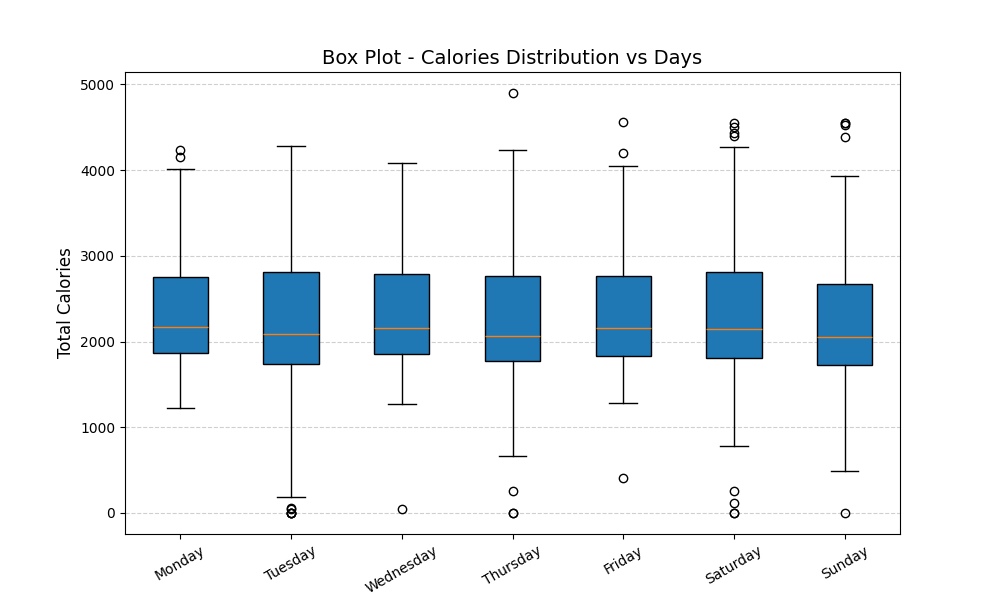
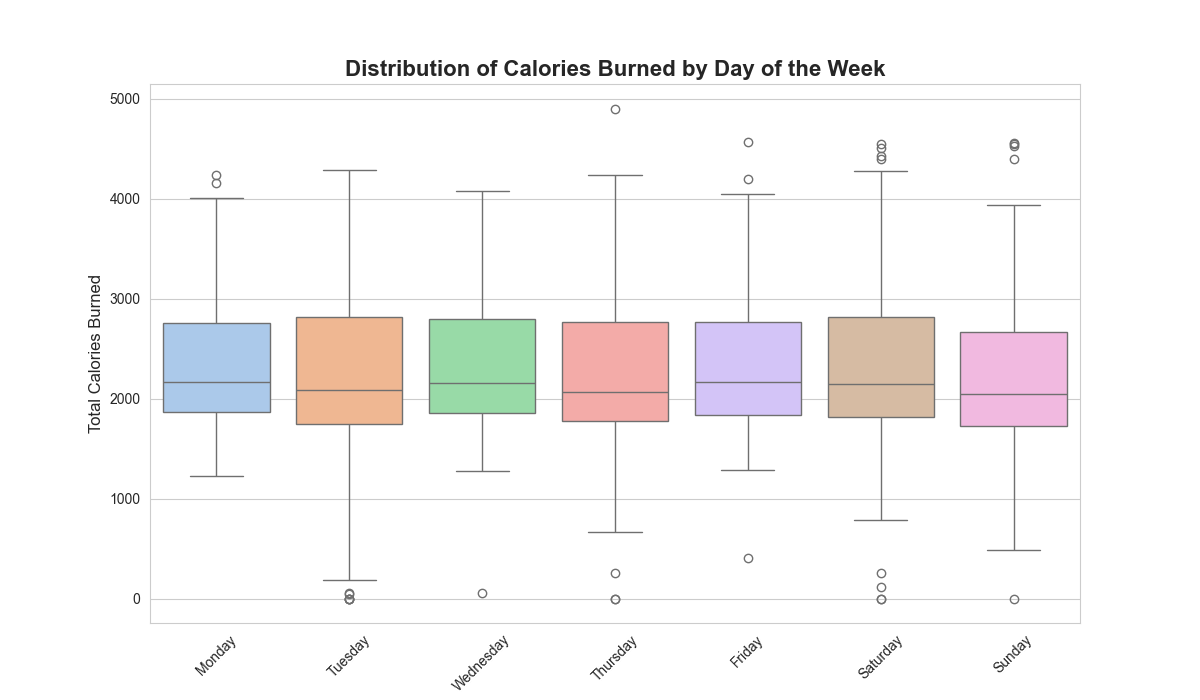
Finalizing the project. Created ReadMe file.

diff --git a/src/train_model.py b/src/train_model.py
@@ -1,14 +1,14 @@
 # ==============================================================================
-# Fitbit User Activity - Exploratory Data Analysis (EDA)
+# Fitbit User Activity - Model Training
 #
 # Project:      IIT Ropar Capstone Project
 #
 # Purpose: This script performs the entire machine learning pipeline:
-#   1. Loads the raw Fitbit data.
-#   2. Prepares it for the LSTM model (cleaning, creating sequences, scaling).
-#   3. Trains the LSTM model, using Early Stopping to find the best version.
-#   4. Evaluates the best model and shows performance graphs.
-#   5. Saves the final, trained model and all necessary components to a 'src' folder.
+#           1. Loads the raw Fitbit data.
+#           2. Prepares it for the LSTM model (cleaning, creating sequences, scaling).
+#           3. Trains the LSTM model, using Early Stopping to find the best version.
+#           4. Evaluates the best model and shows performance graphs.
+#           5. Saves the final, trained model and all necessary components to a 'src' folder.
 #
 # ==============================================================================
 

diff --git a/cleaning_and_transformation.py b/cleaning_and_transformation.py
@@ -1,11 +1,15 @@
-import pandas as pd
-
 # ==============================================================================
-# DATA CONSISTENCY CHECK
+# Fitbit User Activity - Cleaning and Transforming Data
 #
-# The first step is to analyze user overlap between different datasets. This helps
-# justify which datasets to merge and which time periods to focus on.
+# Project:      IIT Ropar Capstone Project
+#
+# Purpose:      The first step is to analyze user overlap between different datasets. This helps
+#               justify which datasets to merge and which time periods to focus on.
+#
+# 
 # ==============================================================================
+
+import pandas as pd
 
 # A utility function to compare the user IDs present in two different dataframes.
 def checking_consistency(first_file, second_file, label):

diff --git a/ReadMe.md b/ReadMe.md
@@ -1,14 +1,142 @@
-## Checking consistency for users before merging data for both months.
+# Fitbit Calorie Prediction & Daily Goal Forecaster
 
-# WeightLogInfo
+**A Capstone Project for IIT Ropar**
 
-Checked the **unique number of users** for both datasets before merging.
-Found that there are some users common in both datasets. It will be interesting to see their fitness journey (2 months).
+## Project Overview
 
-![image](assets/wtlog_comparison.png)
+This project leverages machine learning to forecast daily calorie expenditure for Fitbit users. Using a time-series dataset of user activity, the primary goal is to build and evaluate a system that can predict, early in the day, whether a user is on track to meet their daily calorie target.
 
-While there are 5 and 2 unique users in first and second month respectively, let's see user's avg_weight for both months.
+The project follows a complete data science workflow, starting with in-depth Exploratory Data Analysis (EDA) to understand user behavior, followed by rigorous data preprocessing and feature engineering. A Long Short-Term Memory (LSTM) neural network is trained to predict hourly calorie burn. This hourly model is then used as the engine for a daily forecaster, which is systematically evaluated for both its regression accuracy and its classification performance.
 
-![image](assets/avg_wt_first_vs_second.png)
+The final output is a predictive tool that provides a reliable YES/NO verdict on daily goal achievement, demonstrating a practical application of time-series forecasting in the personal fitness domain.
 
-Noted that there no significant change in user's avg_weight between 2 months. So, decided to include all data of weight log, from both datasets, regardless of incomplete information and varied log timings by users.
+
+
+## Key Features
+
+-   **In-Depth EDA:** Comprehensive analysis of user behavior, including activity levels, weekday patterns, and persona identification (e.g., "Consistent Users" vs. "Weekend Warriors").
+-   **Data Preprocessing:** Robust pipeline for cleaning, transforming, and merging multiple granular Fitbit datasets (calories, steps, sleep, heart rate).
+-   **Feature Engineering:** Creation of valuable hourly features from minute-level sleep data and second-level heart rate data, including a personalized 'StressLevel' metric.
+-   **LSTM Time-Series Model:** A Keras/TensorFlow-based LSTM model trained to predict hourly calorie burn based on a 24-hour sequence of historical activity.
+-   **Daily Forecast System:** An intelligent script that uses the hourly model to iteratively forecast the remainder of the day and predict daily goal achievement.
+-   **Rigorous Evaluation:** A systematic evaluation of the final forecast model on an unseen test set, reporting both regression (MAE, RMSE) and classification (Accuracy, Precision, Recall, F1-Score) metrics.
+
+
+
+## Tech Stack
+
+-   **Language:** Python
+-   **Core Libraries:** Pandas, NumPy
+-   **Machine Learning:** TensorFlow (with Keras API), Scikit-learn
+-   **Data Visualization:** Matplotlib, Seaborn
+-   **Utilities:** Joblib (for saving/loading model assets)
+
+
+
+## Project Structure
+
+This repository is organized into a series of scripts, each performing a distinct phase of the project:
+
+-   `comparison_first_vs_sec_month`: Performs a preliminary analysis to compare user consistency across the two monthly data dumps, justifying the decision to use the second month's data for modeling.
+-   `data_analysis` & `data_deep_dive.py`: These scripts conduct a thorough Exploratory Data Analysis to uncover patterns and insights from the user data.
+-   `cleaning_and_transformation.py`: The main data pipeline script. It cleans, transforms, engineers features, and merges all the source files into a single, model-ready `final_hourly.csv`.
+-   `train_model.py`: This script takes the preprocessed data, builds the LSTM model, trains it using `EarlyStopping` to find the optimal version, evaluates it, and saves the final model and all necessary assets (scalers, test data) to the `/src` directory.
+-   `predict.py`: A dedicated script to rigorously evaluate the saved model's daily forecasting ability on the unseen test set, producing a full classification and regression report, demonstrating the model's practical use.
+
+
+
+## Setup and Installation
+
+1.  **Clone the repository:**
+    ```bash
+    git clone https://github.com/MJuneja29/FitPredict_Activity-Prediction-and-Motivation-System.git
+    cd FitPredict_Activity-Prediction-and-Motivation-System
+    ```
+
+2.  **Create a virtual environment (recommended):**
+    ```bash
+    python -m venv venv
+    source venv/bin/activate  # On Windows, use `venv\Scripts\activate`
+    ```
+
+3.  **Install the required packages:**
+    A `requirements.txt` file is provided. Install all dependencies using pip:
+    ```bash
+    pip install -r requirements.txt
+    ```
+    
+
+4.  **Data:**
+    Place the raw Fitbit datasets into a `Data/` directory as structured in the scripts.
+
+
+
+## How to Run the Project
+
+Execute the scripts in the following order to replicate the project workflow:
+
+**Step 1: Data Preprocessing**
+Run the preprocessing script to clean, engineer features, and create the final `final_hourly.csv` dataset.
+```bash
+python cleaning_and_transformation.py
+```
+
+**Step 2: Train the LSTM Model**
+This script will train the model, find the best epoch using early stopping, and save the final model and all assets into a `/src` folder.
+```bash
+python train_model.py
+```
+
+**Step 3: Evaluate the Forecast Model**
+Run the evaluation script to get a detailed performance report on the model's ability to predict daily goal achievement.
+```bash
+python predict.py
+```
+
+
+
+## Results and Evaluation
+
+The final daily forecast model was evaluated on an unseen test set by simulating a prediction at 3 PM for each day. The model demonstrated strong performance in its primary goal of classifying whether a user would meet their daily calorie target.
+
+#### Key Performance Metrics:
+
+-   **Accuracy:** **89.67%**
+    -   *The model's YES/NO verdict on meeting the daily goal is correct nearly 9 out of 10 times.*
+-   **Precision:** **83.78%**
+    -   *When the model predicts a user will succeed, it is correct 84% of the time, indicating high reliability.*
+-   **Recall:** **86.11%**
+    -   *The model successfully identifies over 86% of the days where the user actually met their goal.*
+-   **F1-Score:** **84.93%**
+    -   *Shows a strong, balanced performance between Precision and Recall.*
+-   **Mean Absolute Error (MAE):** **334.82 calories**
+    -   *On average, the model's projection of the final daily calorie total is off by ~335 calories. This is primarily influenced by the model's difficulty in predicting the exact magnitude of spontaneous, high-intensity activities.*
+
+
+
+
+## Future Considerations and Enhancements
+
+While this project successfully demonstrates a robust forecasting model based on historical data, its true potential lies in its application as a real-time, interactive user-coaching system. The following are key areas for future development to transform this analysis into a dynamic, real-world product.
+
+### 1. Proactive Coaching with a Generative AI Engine
+
+-   **Concept:** Integrate the numerical forecast results with a **Generative AI model (like GPT-4)** via its API. Instead of just a YES/NO verdict, the system could provide dynamic, encouraging, and context-aware motivational messages.
+-   **Impact:** This transforms the system from a data tool into a personalized AI coach. For example, if a user has a 300-calorie deficit at 4 PM, the AI could generate a message like:
+ 
+    > *"Great effort so far today! It looks like you're about 300 calories short of your goal. A brisk 30-minute walk after dinner would be a perfect way to close the gap. You can do it!"*
+
+### 2. Developing a User-Facing Application
+
+-   **Concept:** Package the prediction logic into a backend service (e.g., using **Flask or FastAPI**) and connect it to a user-facing application.
+-   **Impact:** This would deliver the insights directly to the user in a convenient format, such as:
+    -   A **mobile app** that sends proactive push notifications.
+    -   A **web dashboard** for detailed daily and weekly trend analysis.
+    -   A **chatbot** (e.g., on Telegram or WhatsApp) for interactive, on-demand coaching.
+
+### 3. Advanced Model Enhancements
+
+-   **Concept:** Further improve the model's predictive accuracy, especially in reducing the Mean Absolute Error (MAE) for the final calorie number.
+-   **Impact:** A more accurate model leads to more precise suggestions.
+    -   **Richer Feature Engineering:** Incorporate more granular data that is often available through APIs, such as detailed **sleep stages (REM, deep, light)** and **Heart Rate Variability (HRV)** to better model user fatigue and recovery.
+    -   **Exploring Transformer Models:** Investigate state-of-the-art time-series architectures like **Transformers**, which may capture long-term dependencies in user behavior even more effectively than LSTMs.
